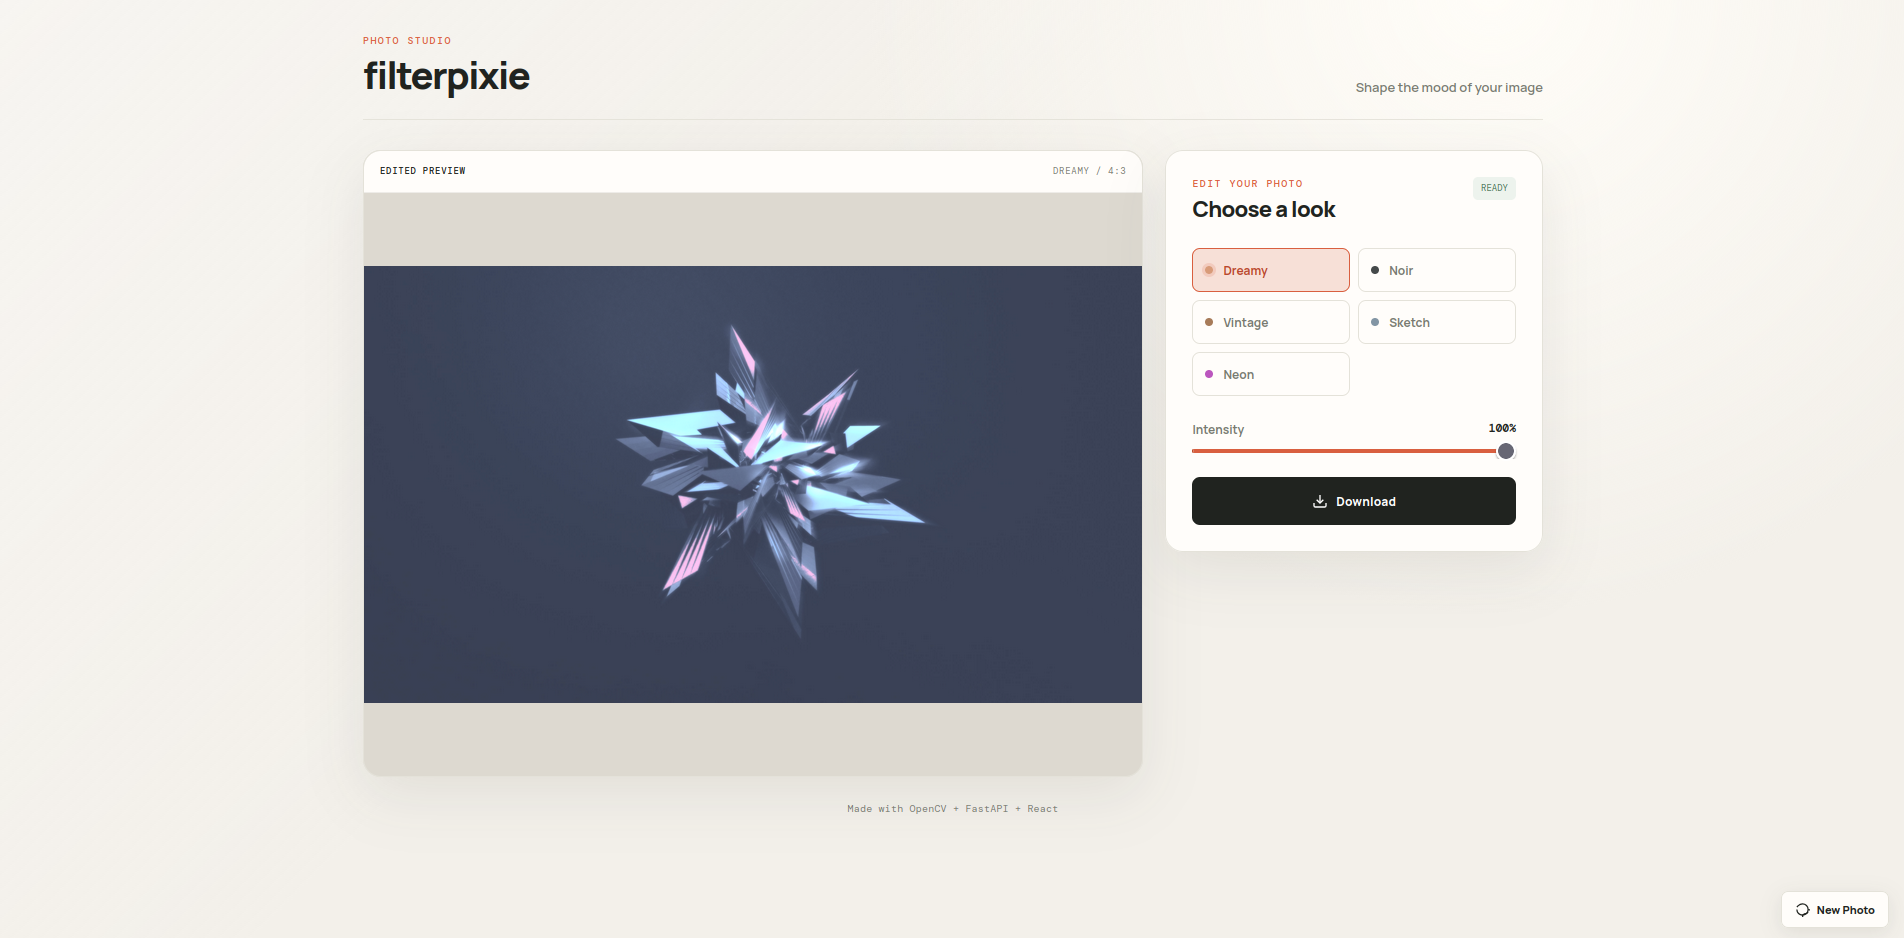
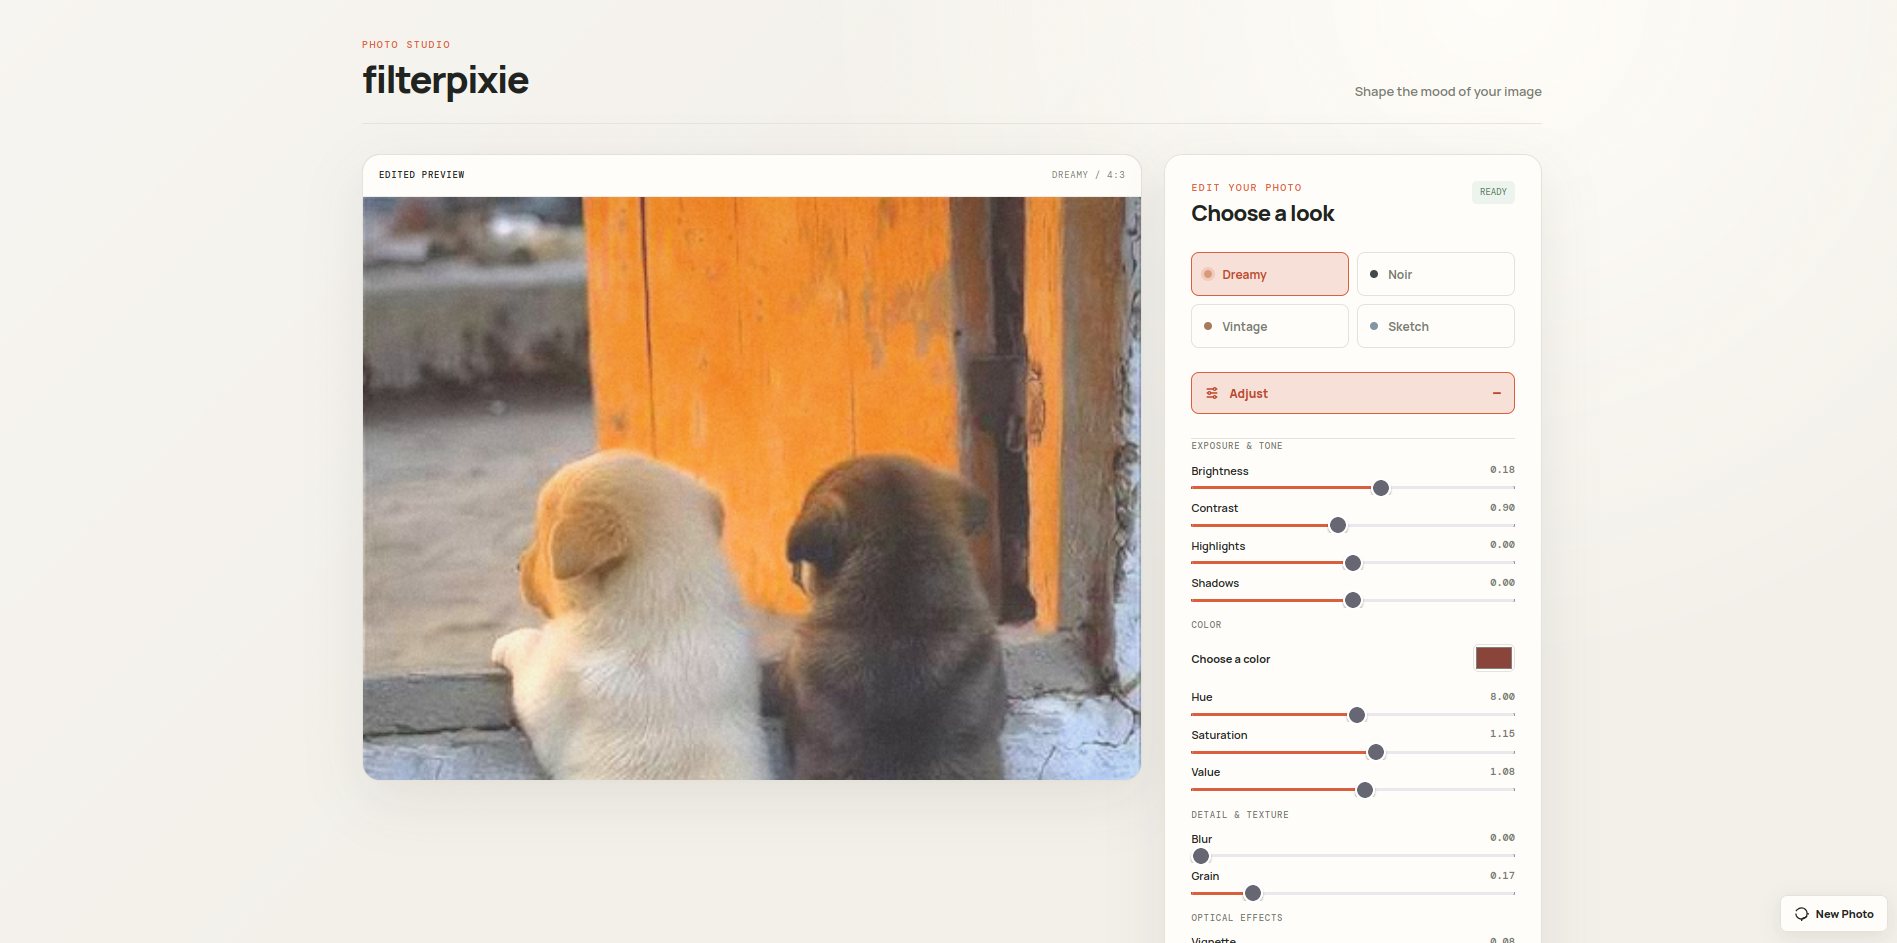
polaroid print added

diff --git a/frontend/src/hooks/useFilter.ts b/frontend/src/hooks/useFilter.ts
@@ -9,8 +9,10 @@ interface UseFilterReturn {
   error: string | null;
   parameters: FilterParameters;
   selectedFilter: FilterId | null;
+  polaroid: boolean;
   applySelectedFilter: (file: File, filterId: FilterId) => Promise<void>;
   setParameter: (id: keyof FilterParameters, value: number) => void;
+  setPolaroid: (enabled: boolean) => void;
   setSelectedFilter: (filter: FilterId | null) => void;
   reset: () => void;
   downloadImage: () => void;
@@ -23,6 +25,7 @@ export function useFilter(): UseFilterReturn {
   const [error, setError] = useState<string | null>(null);
   const [parameters, setParameters] = useState<FilterParameters>({ ...DEFAULT_PARAMETERS });
   const [selectedFilter, setSelectedFilterState] = useState<FilterId | null>(null);
+  const [polaroid, setPolaroid] = useState(false);
   const originalFileRef = useRef<File | null>(null);
 
   const reset = useCallback(() => {
@@ -31,6 +34,7 @@ export function useFilter(): UseFilterReturn {
     setOriginalImage(null);
     setFilteredImage(null);
     setSelectedFilterState(null);
+    setPolaroid(false);
     setError(null);
     originalFileRef.current = null;
   }, [originalImage, filteredImage]);
@@ -49,7 +53,7 @@ export function useFilter(): UseFilterReturn {
       }
 
       try {
-        const resultUrl = await applyFilter(file, filterId, 1, parameters);
+        const resultUrl = await applyFilter(file, filterId, 1, parameters, polaroid);
         if (filteredImage) URL.revokeObjectURL(filteredImage);
         setFilteredImage(resultUrl);
       } catch (err) {
@@ -59,7 +63,7 @@ export function useFilter(): UseFilterReturn {
         setIsLoading(false);
       }
     },
-    [parameters, filteredImage, originalImage]
+    [parameters, polaroid, filteredImage, originalImage]
   );
 
   const setParameter = useCallback((id: keyof FilterParameters, value: number) => {
@@ -85,7 +89,7 @@ export function useFilter(): UseFilterReturn {
     if (filteredImage && selectedFilter && originalFileRef.current) {
       applySelectedFilter(originalFileRef.current, selectedFilter);
     }
-  }, [selectedFilter, parameters]);
+  }, [selectedFilter, parameters, polaroid]);
 
   return {
     originalImage,
@@ -93,9 +97,11 @@ export function useFilter(): UseFilterReturn {
     isLoading,
     error,
     selectedFilter,
+    polaroid,
     applySelectedFilter,
     parameters,
     setParameter,
+    setPolaroid,
     setSelectedFilter,
     reset,
     downloadImage,

diff --git a/frontend/src/index.css b/frontend/src/index.css
@@ -307,6 +307,10 @@ img {
 .adjust-btn.active { border-color: var(--accent); background: var(--accent-soft); color: var(--accent-dark); }
 .adjust-btn svg { width: 16px; height: 16px; }
 .adjust-chevron { margin-left: auto; color: currentColor; font-family: 'DM Mono', monospace; font-size: 16px; line-height: 1; }
+.output-toggle { display: flex; min-height: 42px; align-items: center; gap: 9px; padding: 0 12px; border: 1px solid var(--line); border-radius: 8px; color: var(--muted); font-size: 12px; font-weight: 800; cursor: pointer; transition: border-color var(--transition), color var(--transition), background var(--transition); }
+.output-toggle:hover, .output-toggle.active { border-color: var(--accent); color: var(--accent-dark); }
+.output-toggle.active { background: var(--accent-soft); }
+.output-toggle input { width: 15px; height: 15px; accent-color: var(--accent); }
 
 .download-btn { display: flex; width: 100%; min-height: 48px; align-items: center; justify-content: center; gap: 8px; border-radius: 8px; background: var(--ink); color: white; font-size: 12px; font-weight: 800; letter-spacing: 0.01em; transition: background var(--transition), transform var(--transition), box-shadow var(--transition); }
 .download-btn:hover:not(:disabled) { background: var(--accent-dark); transform: translateY(-1px); }

diff --git a/frontend/src/App.tsx b/frontend/src/App.tsx
@@ -18,8 +18,10 @@ function App() {
     error: filterError,
     parameters,
     selectedFilter,
+    polaroid,
     applySelectedFilter,
     setParameter,
+    setPolaroid,
     setSelectedFilter,
     reset,
     downloadImage,
@@ -118,6 +120,16 @@ function App() {
                 <span>Adjust</span>
                 <span className="adjust-chevron" aria-hidden="true">{showAdjustments ? '−' : '+'}</span>
               </button>
+
+              <label className={`output-toggle ${polaroid ? 'active' : ''}`}>
+                <input
+                  type="checkbox"
+                  checked={polaroid}
+                  onChange={(event) => setPolaroid(event.target.checked)}
+                  disabled={isLoading}
+                />
+                <span>Polaroid print</span>
+              </label>
 
               {showAdjustments && (
                 <ParameterControls

diff --git a/frontend/src/utils/api.ts b/frontend/src/utils/api.ts
@@ -14,13 +14,15 @@ export async function applyFilter(
   file: File,
   filterId: string,
   intensity: number,
-  parameters: FilterParameters
+  parameters: FilterParameters,
+  polaroid: boolean
 ): Promise<string> {
   const formData = new FormData();
   formData.append('image', file);
   formData.append('filter_name', filterId);
   formData.append('intensity', intensity.toString());
   formData.append('parameters', JSON.stringify(parameters));
+  formData.append('polaroid', polaroid.toString());
 
   const response = await fetch(getApiUrl('/apply-filter'), {
     method: 'POST',

diff --git a/backend/main.py b/backend/main.py
@@ -58,6 +58,25 @@ def encode_image(image: np.ndarray) -> bytes:
     return buffer.tobytes()
 
 
+def make_polaroid(image: np.ndarray) -> np.ndarray:
+    """Place the image on a white print with a deeper top margin."""
+    height, width = image.shape[:2]
+    print_width = max(1, int(width / 0.84))
+    side_margin = int(print_width * 0.02)
+    image_width = print_width - side_margin * 2
+    image_height = max(1, int(height * image_width / width))
+    resized = cv2.resize(image, (image_width, image_height), interpolation=cv2.INTER_AREA)
+    top_margin = int(print_width * 0.06)
+    bottom_margin = int(print_width * 0.06)
+    canvas = np.full(
+        (top_margin + image_height + bottom_margin, print_width, 3),
+        255,
+        dtype=np.uint8,
+    )
+    canvas[top_margin:top_margin + image_height, side_margin:side_margin + image_width] = resized
+    return canvas
+
+
 @app.get("/")
 async def root():
     return {"message": "FilterPixie API", "filters": FILTER_NAMES}
@@ -89,7 +108,13 @@ async def list_parameters():
     }
 
 
-def render_filter(image: np.ndarray, filter_name: str, intensity: float, parameter_json: str) -> np.ndarray:
+def render_filter(
+    image: np.ndarray,
+    filter_name: str,
+    intensity: float,
+    parameter_json: str,
+    polaroid: bool = False,
+) -> np.ndarray:
     if filter_name not in FILTER_NAMES:
         raise HTTPException(status_code=400, detail=f"Unknown filter: {filter_name}")
     try:
@@ -99,7 +124,8 @@ def render_filter(image: np.ndarray, filter_name: str, intensity: float, paramet
         parameters = preset_parameters(filter_name, intensity, overrides)
     except (TypeError, ValueError, json.JSONDecodeError) as error:
         raise HTTPException(status_code=400, detail=str(error)) from error
-    return ENGINE.apply(image, parameters)
+    result = ENGINE.apply(image, parameters)
+    return make_polaroid(result) if polaroid else result
 
 
 @app.post("/apply-filter")
@@ -108,9 +134,10 @@ async def apply_filter(
     filter_name: str = Form(...),
     intensity: float = Form(1.0),
     parameters: str = Form("{}"),
+    polaroid: bool = Form(False),
 ):
     img = read_image(image)
-    filtered = render_filter(img, filter_name, intensity, parameters)
+    filtered = render_filter(img, filter_name, intensity, parameters, polaroid)
     result_bytes = encode_image(filtered)
 
     return Response(content=result_bytes, media_type="image/png")
@@ -122,11 +149,12 @@ async def apply_filter_base64(
     filter_name: str = Form(...),
     intensity: float = Form(1.0),
     parameters: str = Form("{}"),
+    polaroid: bool = Form(False),
 ):
     import base64
 
     img = read_image(image)
-    filtered = render_filter(img, filter_name, intensity, parameters)
+    filtered = render_filter(img, filter_name, intensity, parameters, polaroid)
     result_bytes = encode_image(filtered)
     b64 = base64.b64encode(result_bytes).decode('utf-8')
 
